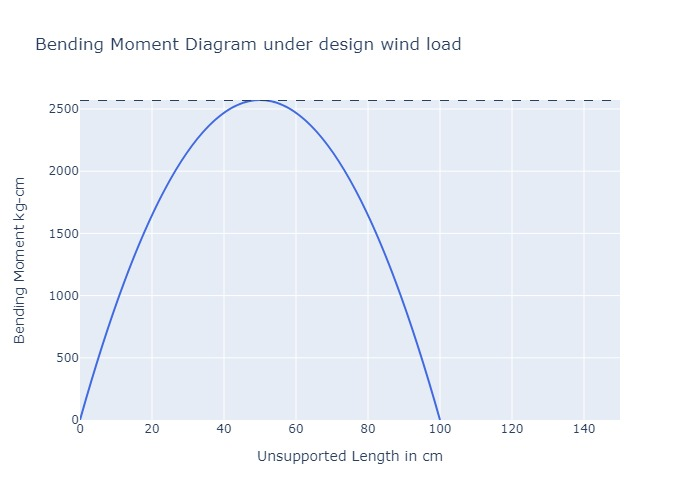
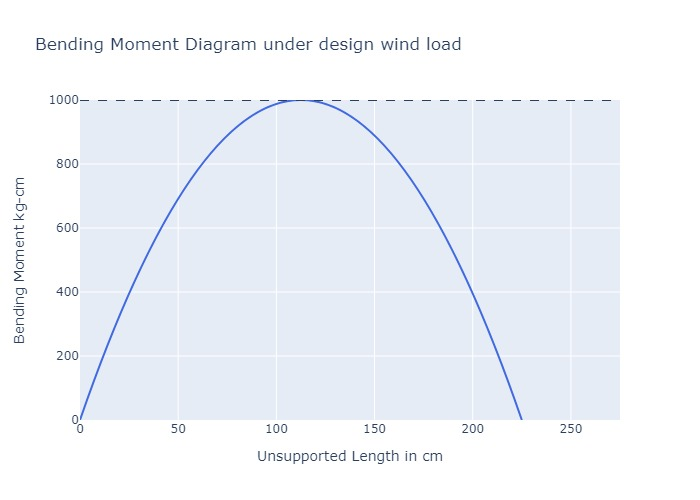
Added Trapezoidal fmla for inertia

diff --git a/structuretool/structure/views.py b/structuretool/structure/views.py
@@ -413,9 +413,9 @@ def windowsPDF(request,pk):
             diagramPath = "D:/MyProjects/tool/structuretool/structure/static/structure/deflTriangle.JPG"  
         else:
             #Trapezoidal ( need to double check)
-            momentInertia = (5 * w * (float(lengthSession) * 100)**4)/(384 * 700000 * finalMaxDefl)
+            momentInertia = (w * (float(lengthSession) * 100)**4 * (25-(40 * (float(lwidthSession)/(float(lengthSession))**2) + (16 * (float(lwidthSession)/(float(lengthSession))**4)))))/(1920 * 700000 * finalMaxDefl)
             momentInertiaRounded = round(momentInertia,2) 
-            fActual = 10
+            fActual = (w * (float(lengthSession) * 100)**4 * (25-(40 * (float(lwidthSession)/(float(lengthSession))**2) + (16 * (float(lwidthSession)/(float(lengthSession))**4)))))/(1920 * 700000 * float(ixx))
             maxBendMoment = 1000
             maxBendMomentRounded = round(maxBendMoment,2)
             fActualRounded = round(fActual,2)
